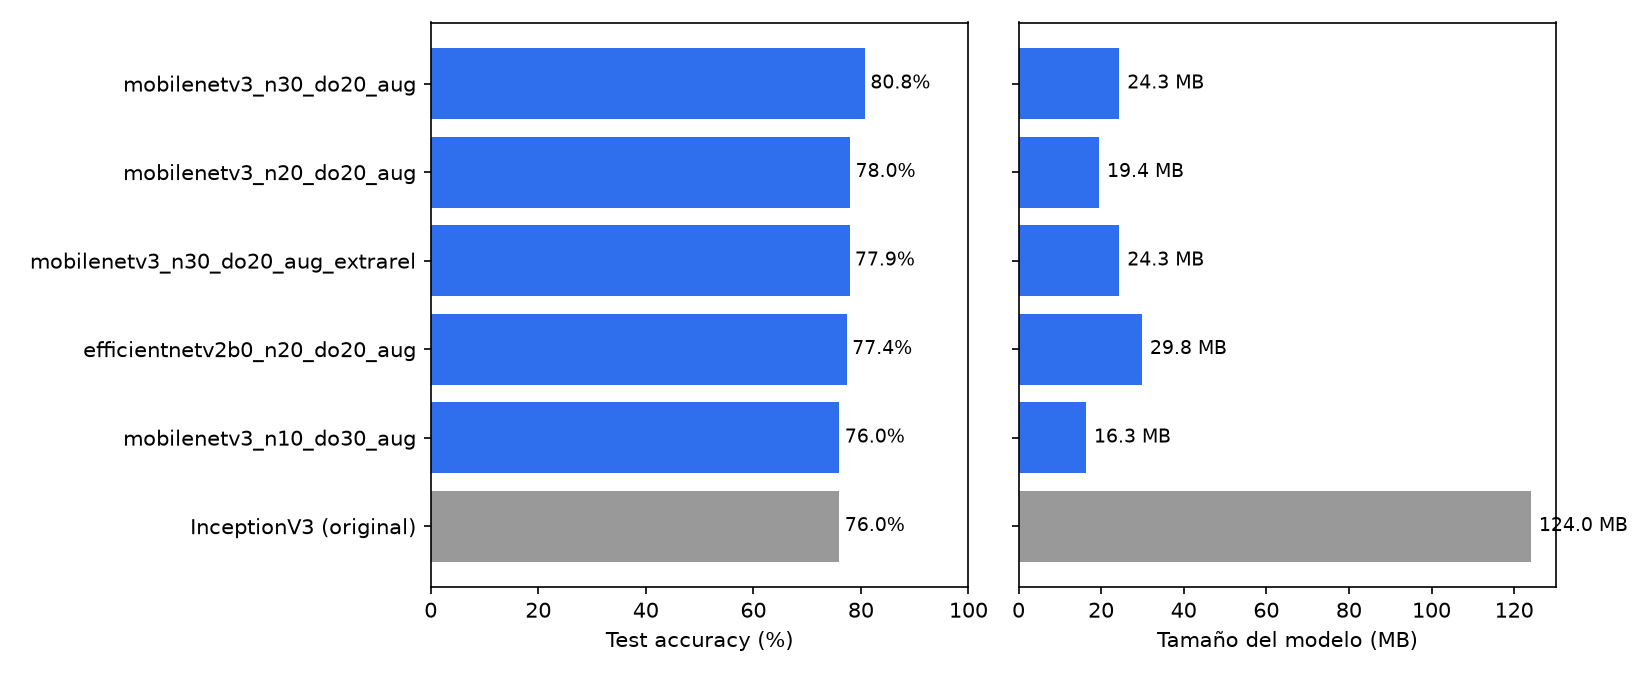
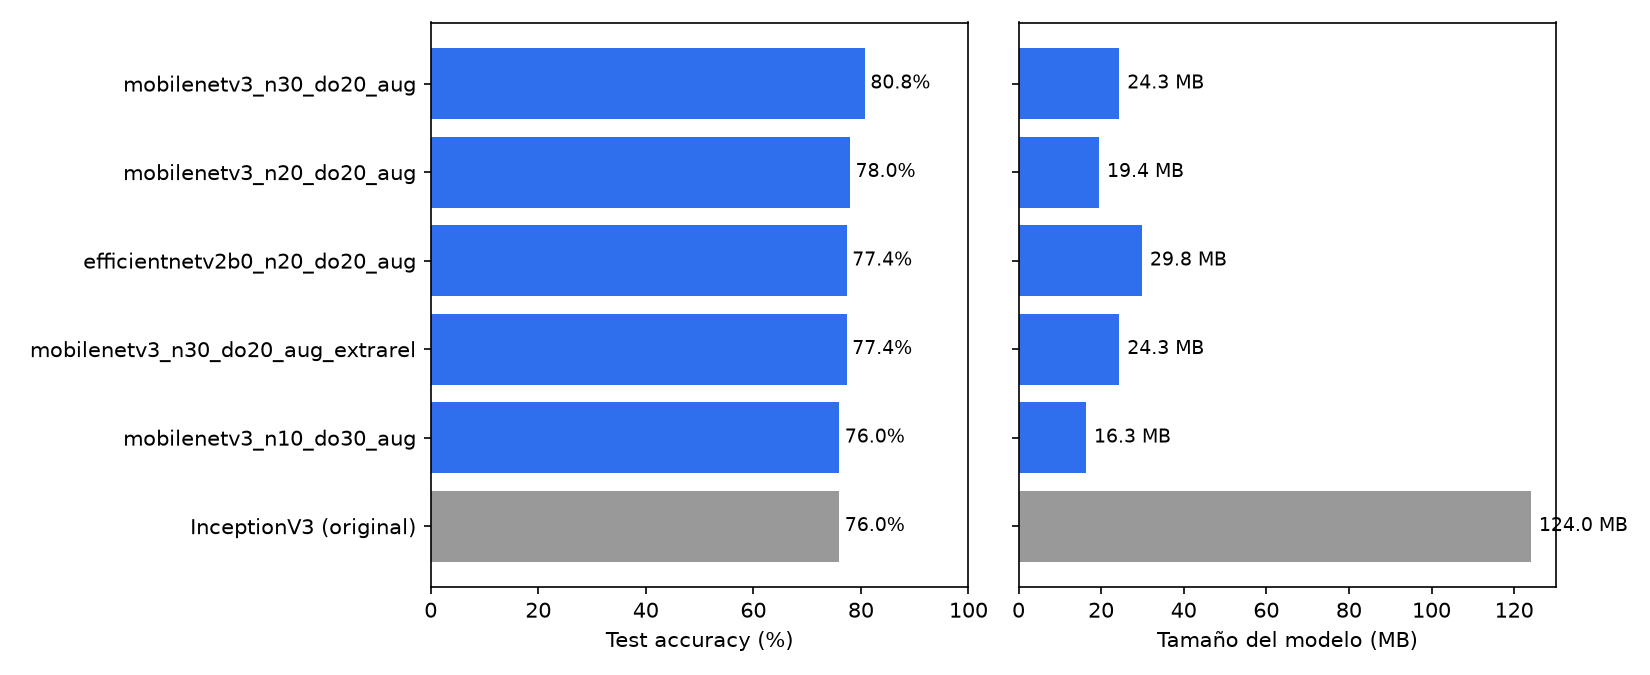
Segundo intento de datos extra (peso 0.2) -- tampoco mejoró
Con peso 0.2 el test_acc dio 77.38% (peor incluso que el intento con peso 0.5,
77.88%) y paró en la época 12 contra 22 y 34 de los otros -- no hay un patrón
limpio entre los pesos probados, así que buena parte de la diferencia parece
ser varianza entre corridas más que el peso en sí. Documentado en REPORT.md
con los tres puntos de comparación (sin extra / peso 0.5 / peso 0.2) y in
recomendación de revisar "relaxed" a mano antes de seguir ajustando este dial.

De paso: el nombre de la corrida no incluía el peso, así que este intento pisó
el archivo del anterior -- se agrega al run_name para que no vuelva a pasar.

diff --git a/training/train_lightweight.py b/training/train_lightweight.py
@@ -276,7 +276,10 @@ def train(args):
 
     extra_suffix = ""
     if extra_info:
-        extra_suffix = "_extra" + "".join(c[:3] for c in extra_info["classes"])
+        # el peso va en el nombre para no pisar corridas con el mismo backbone/clases
+        # pero distinto --extra-weight (paso en el que ya nos pisamos una vez).
+        extra_suffix = ("_extra" + "".join(c[:3] for c in extra_info["classes"]) +
+                        f"_w{int(extra_info['weight'] * 100)}")
     run_name = (f"{args.backbone}_n{args.n_capas}_do{int(args.dropout * 100)}_"
                f"{'aug' if args.augment else 'noaug'}{extra_suffix}")
     os.makedirs("models", exist_ok=True)

diff --git a/REPORT.md b/REPORT.md
@@ -143,36 +143,45 @@ dataset es efectivamente ruidoso, como se sospechaba. Por clase: `angry` fue la
 que menos sobrevivió (23,2%), `relaxed` la que más (46,4%, 2.016 imágenes).
 
 Se sumaron esas 2.016 imágenes de `relaxed` al entrenamiento (solo a train, con
-`sample_weight=0.5` para pesar menos que el dataset curado) sobre la misma
-configuración ganadora (MobileNetV3Large, 30 capas, dropout 0.2). Resultado:
-**test_acc bajó a 77,88%** (contra 80,75% sin los datos extra) — no se adoptó,
+`sample_weight` para pesar menos que el dataset curado) sobre la misma
+configuración ganadora (MobileNetV3Large, 30 capas, dropout 0.2), probando dos
+pesos distintos:
+
+| Peso extra | Épocas | test_acc | Recall relaxed | Recall sad |
+| --- | --- | --- | --- | --- |
+| — (sin extra) | 34 | **80,75%** | 0,785 | 0,845 |
+| 0,5 | 22 | 77,88% | **0,880** | 0,695 |
+| 0,2 | 12 | 77,38% | 0,775 | 0,770 |
+
+Ninguno de los dos pesos superó al modelo sin datos extra — **no se adoptó**,
 el modelo en producción sigue siendo `mobilenetv3_n30_do20_aug`.
 
-Mirando por clase se entiende por qué no fue una mejora simple:
+Con peso 0,5 se ve un patrón claro: el recall de `relaxed` mejoró de verdad
+(reconoce más perros relajados reales), pero a costa de "gatillo fácil" —
+empezó a etiquetar como `relaxed` una porción mucho mayor de fotos de `sad`
+(58 casos contra 28 antes), justo la clase con la que más se confunde. Con
+peso 0,2 se esperaba un punto intermedio entre el baseline y el de peso 0,5,
+pero dio *peor* que ambos y paró mucho antes (época 12 contra 22 y 34) — no
+alcanzó a moverle la aguja a `relaxed` pero sí metió ruido suficiente para
+perjudicar un poco a todas las clases por igual. Esa falta de patrón limpio
+entre 0,2 y 0,5 sugiere que buena parte de la diferencia es simplemente
+varianza entre corridas (con menos épocas, hay menos margen para que el
+entrenamiento se asiente), no solo el peso en sí.
 
-| Clase | Recall sin extra | Recall con extra | Precision sin extra | Precision con extra |
-| --- | --- | --- | --- | --- |
-| relaxed | 0,785 | **0,880** | 0,701 | **0,611** |
-| sad | 0,845 | **0,695** | 0,790 | 0,853 |
-| angry | 0,755 | 0,700 | 0,893 | 0,933 |
-
-El recall de `relaxed` efectivamente mejoró (el modelo reconoce más perros
-relajados de verdad), pero a costa de "gatillo fácil": empezó a etiquetar como
-`relaxed` una porción mucho mayor de fotos de `sad` (58 casos contra 28 antes),
-justo la clase con la que más se confunde. Sumar datos a una sola clase corrió
-el punto de equilibrio del modelo hacia esa clase en vez de mejorar la
-separación en general — no es que los datos extra no sirvan, sino que 2.016
-imágenes con peso 0,5 fue demasiado empuje en una sola dirección.
-
-No se seguió iterando sobre esto (probar `--extra-weight` más bajo, usar menos
-imágenes, o sumar a varias clases a la vez) para no extender indefinidamente la
-búsqueda — queda anotado como próximo paso concreto más abajo.
+No se siguió iterando sobre el peso (probar 0,1, 0,35, más paciencia para darle
+tiempo a converger) porque no había una señal clara de que fuera a mejorar con
+un tercer intento — antes de seguir ajustando este dial, tiene más sentido
+revisar a mano una muestra de `relaxed` (ver "Limitaciones" abajo) para saber
+si el problema es la cantidad de datos o la calidad/ambigüedad de las
+etiquetas, que ningún peso va a arreglar.
 
 ## Limitaciones y próximos pasos
 
-- El experimento de arriba sugiere que vale la pena reintentar con un
-  `--extra-weight` más bajo (0.2–0.3) o un subconjunto más chico de las 2.016
-  imágenes de `relaxed`, en vez de las 2.016 completas a peso 0.5.
+- Antes de seguir ajustando el peso de los datos extra, tiene más sentido
+  revisar a mano una muestra de las imágenes de `relaxed` (las de Kaggle y las
+  de Flickr que sobrevivieron el filtro) para entender si el techo está en la
+  cantidad de datos o en ambigüedad/etiquetas dudosas — esto último no lo
+  arregla ningún ajuste de hiperparámetros.
 - No se hizo un barrido más fino alrededor de `n_capas=30` (por ejemplo 25 o 35)
   para confirmar si ese es realmente el óptimo o si se puede exprimir un poco más.
 
